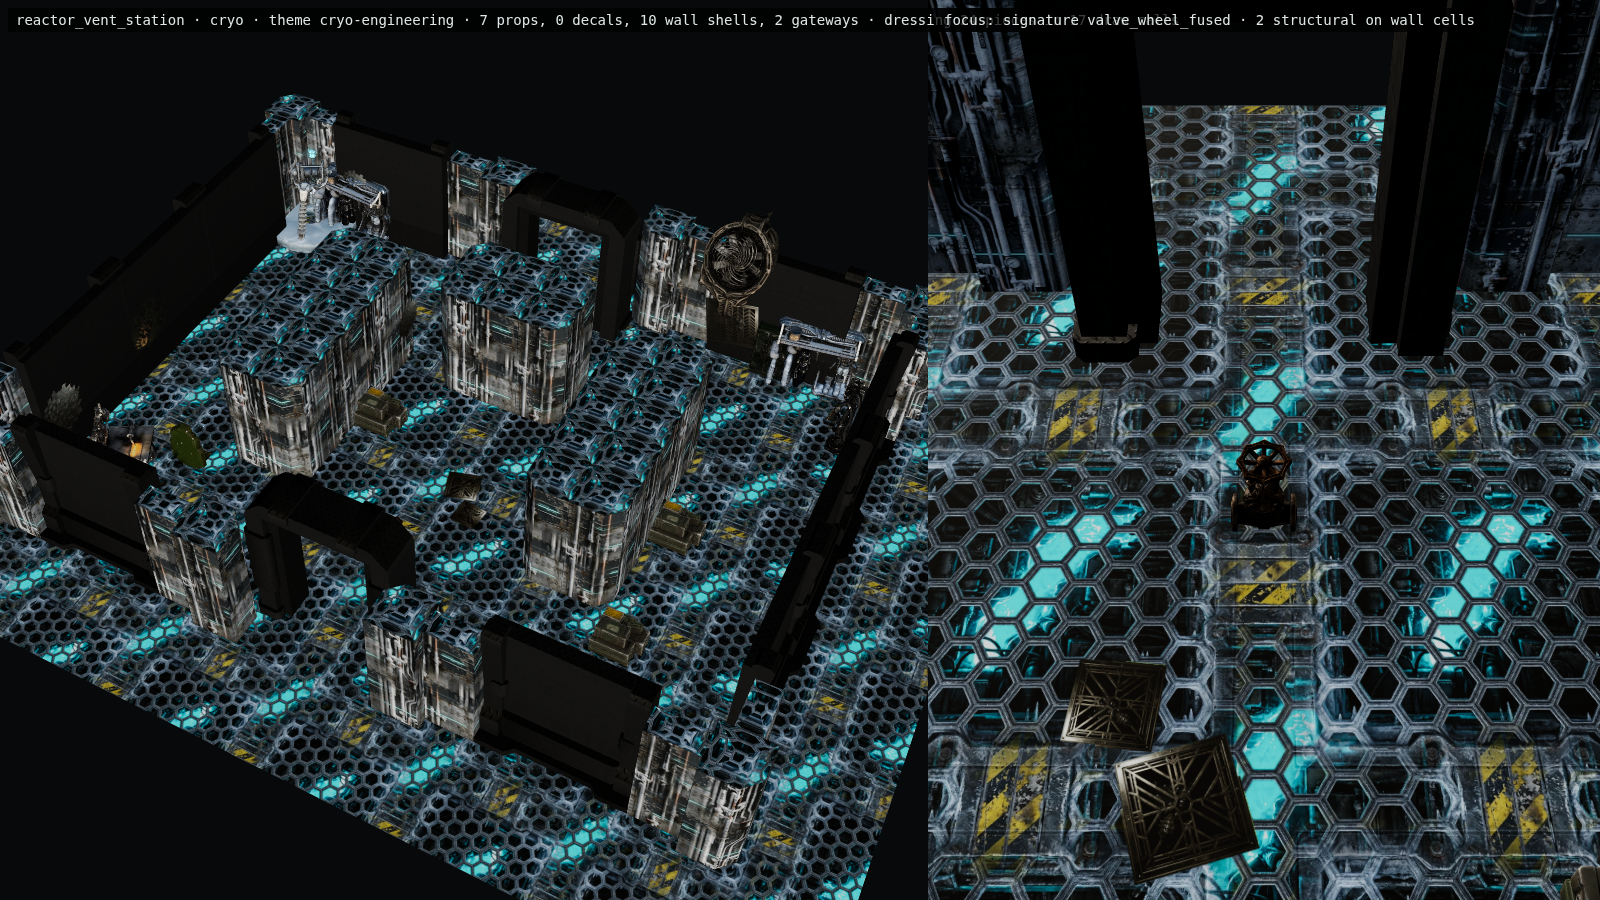
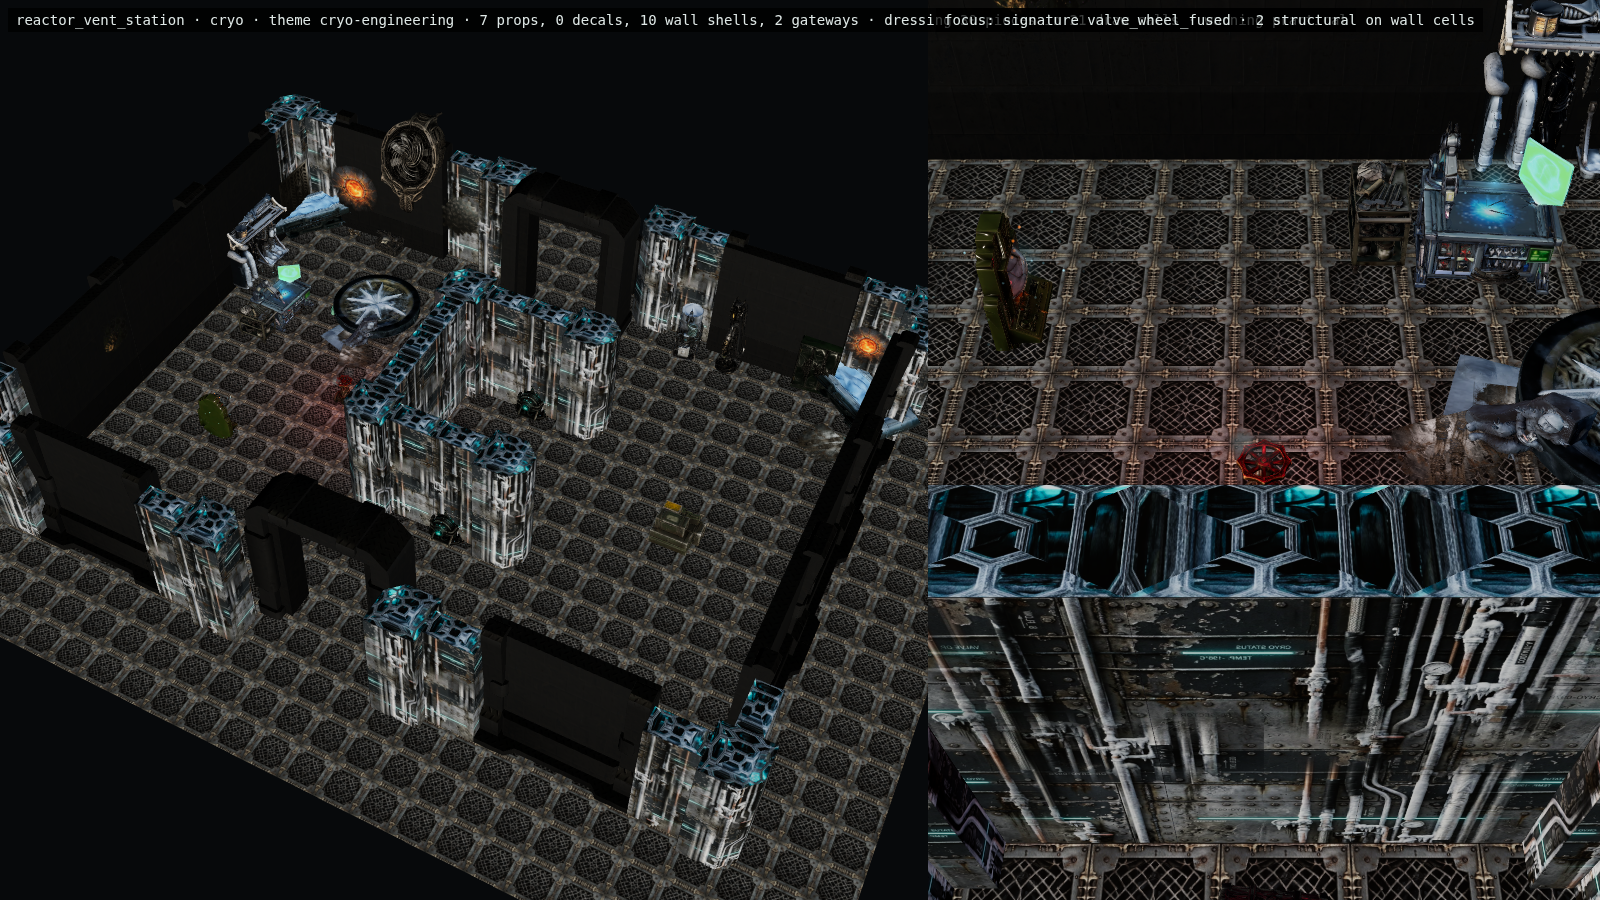
feat(levels): shape reactor vent into a false throat

diff --git a/src/data/roomBuilds.js b/src/data/roomBuilds.js
@@ -497,10 +497,21 @@ export const ROOM_BUILD_CATALOG = Object.freeze([
         family: 'engineering',
         themeStyle: 'cryo_deck',
         partitionThickness: 0.5,
-        pattern: rectRoomPattern(15, 11, [
-            { x: 3, y: 3, w: 2, h: 5 },
-            { x: 10, y: 3, w: 2, h: 5 },
-            { x: 6, y: 2, w: 3, h: 2 }
+        // P2 pressure-space proof: a single broken C reads as a false vent
+        // throat. The west service crescent owns the objective; the east
+        // route exposes the reward and encounter floor. Both rejoin north.
+        pattern: authoredRoomPattern([
+            '...............',
+            '...............',
+            '...............',
+            '......####.....',
+            '......#........',
+            '......#........',
+            '......#........',
+            '......####.....',
+            '...............',
+            '...............',
+            '...............'
         ]),
         sockets: [
             { id: 'entry', side: 's', width: 3, required: true },
@@ -511,20 +522,27 @@ export const ROOM_BUILD_CATALOG = Object.freeze([
         biomeEligibility: ['active', 'cryo'],
         roles: ['questDestination', 'objective'],
         structuralAnchors: [
-            { id: 'vent_stack_a', type: 'prop_conduit_hub', x: 4, y: 5 },
-            { id: 'vent_stack_b', type: 'prop_conduit_hub', x: 11, y: 5 }
+            { id: 'vent_stack_a', type: 'prop_conduit_hub', x: 8, y: 3 },
+            { id: 'vent_stack_b', type: 'prop_conduit_hub', x: 8, y: 7 }
         ],
         interactionAnchors: [
-            { id: 'reactor_vent_control', type: 'prop_valve_wheel_fused', x: 7, y: 8 }
+            { id: 'reactor_vent_control', type: 'prop_valve_wheel_fused', x: 4, y: 5 }
         ],
         signatureAnchorId: 'reactor_vent_control',
         compassAnchors: { approach: 'entry', objective: 'reactor_vent_control' },
-        coverZones: [{ x: 2, y: 2, w: 4, h: 7 }, { x: 9, y: 2, w: 4, h: 7 }],
-        encounterZones: [{ id: 'vent_floor', x: 6, y: 4, w: 3, h: 4 }],
-        rewardAnchors: [{ id: 'vent_service_cache', type: 'prop_bunker_supplies', x: 12, y: 8 }],
-        loreAnchors: [{ id: 'vent_shift_log', type: 'lore_terminal', x: 2, y: 8 }],
-        hazardZones: [{ id: 'steam_plume', x: 6, y: 2, w: 3, h: 2 }],
-        quietZones: [],
+        coverZones: [
+            { x: 6, y: 3, w: 4, h: 1 },
+            { x: 6, y: 3, w: 1, h: 5 },
+            { x: 6, y: 7, w: 4, h: 1 }
+        ],
+        encounterZones: [{ id: 'vent_floor', x: 7, y: 3, w: 7, h: 5 }],
+        rewardAnchors: [{ id: 'vent_service_cache', type: 'prop_bunker_supplies', x: 12, y: 5 }],
+        loreAnchors: [{ id: 'vent_shift_log', type: 'lore_terminal', x: 2, y: 7 }],
+        hazardZones: [{ id: 'steam_plume', x: 7, y: 4, w: 3, h: 3 }],
+        quietZones: [
+            { x: 5, y: 8, w: 5, h: 3 },
+            { x: 1, y: 3, w: 5, h: 5 }
+        ],
         safeZone: false,
         containmentBounds: { minX: 0, minY: 0, maxX: 14, maxY: 10 },
         presentationVariants: ['pressurized', 'venting', 'stabilized'],

diff --git a/src/roomBuilds.test.js b/src/roomBuilds.test.js
@@ -59,6 +59,41 @@ describe('ROOM_BUILD_CATALOG', () => {
         }));
     });
 
+    it('turns the reactor vent station into a two-route false throat', () => {
+        const build = ROOM_BUILD_CATALOG.find((entry) => entry.id === 'reactor_vent_station');
+        expect(build.pattern).toEqual([
+            '...............',
+            '...............',
+            '...............',
+            '......####.....',
+            '......#........',
+            '......#........',
+            '......#........',
+            '......####.....',
+            '...............',
+            '...............',
+            '...............'
+        ]);
+        const approach = computeApproachPoint(build);
+        const farSide = { x: 7, y: 2 };
+        const westOpening = new Set(Array.from({ length: 6 }, (_, x) => `${x},7`));
+        const eastOpening = new Set(Array.from({ length: 5 }, (_, offset) => `${offset + 10},7`));
+        expect(approach).toEqual({ x: 7, y: 8 });
+        expect(build.pattern[7][approach.x]).toBe('#');
+        expect(shortestPatternPath(build.pattern, approach, farSide, westOpening)).toBeLessThan(Infinity);
+        expect(shortestPatternPath(build.pattern, approach, farSide, eastOpening)).toBeLessThan(Infinity);
+        expect(shortestPatternPath(build.pattern, approach, { x: 4, y: 5 })).toBeLessThan(Infinity);
+        expect(shortestPatternPath(build.pattern, approach, { x: 12, y: 5 })).toBeLessThan(Infinity);
+        expect(build.structuralAnchors).toEqual(expect.arrayContaining([
+            expect.objectContaining({ id: 'vent_stack_a', x: 8, y: 3 }),
+            expect.objectContaining({ id: 'vent_stack_b', x: 8, y: 7 })
+        ]));
+        expect(build.structuralAnchors.every((anchor) => build.pattern[anchor.y][anchor.x] === '#')).toBe(true);
+        expect(build.interactionAnchors[0]).toMatchObject({ id: 'reactor_vent_control', x: 4, y: 5 });
+        expect(build.rewardAnchors[0]).toMatchObject({ id: 'vent_service_cache', x: 12, y: 5 });
+        expect(build.hazardZones[0]).toMatchObject({ id: 'steam_plume', x: 7, y: 4, w: 3, h: 3 });
+    });
+
     it('uses the medical P0A proof to create a reveal pivot and supply-side loop', () => {
         const build = ROOM_BUILD_CATALOG.find((entry) => entry.id === 'medical_triage');
         expect(build.pattern).toEqual([

diff --git a/tests/e2e/probes/p2-reactor-vent-gameplay-camera.spec.js b/tests/e2e/probes/p2-reactor-vent-gameplay-camera.spec.js
@@ -1,0 +1,19 @@
+import { test, expect } from '@playwright/test';
+
+// P2 pressure-space proof: the false throat, western valve crescent, eastern
+// reward route and optional north rejoin must read in every camera rotation.
+for (let rotation = 0; rotation < 4; rotation += 1) {
+    test(`P2 reactor vent game camera — R${rotation}`, async ({ page }) => {
+        await page.setViewportSize({ width: 1600, height: 900 });
+        await page.goto(`/tests/e2e/fixtures/furnished-room-showroom.html?build=reactor_vent_station&biome=cryo&review=gameplay&rotation=${rotation}`);
+        await page.waitForFunction(() => window.__showroom?.ready === true, null, { timeout: 90_000 });
+        const result = await page.evaluate(() => window.__showroom);
+        expect(result.reviewMode).toBe(true);
+        expect(result.rotation).toBe(rotation);
+        expect(result.cutawayCells).toBeGreaterThan(0);
+        expect(result.props + result.decals).toBeGreaterThan(0);
+        await page.screenshot({
+            path: `docs/reports/assets/furnished-rooms/p2-reactor_vent_station-game-camera-r${rotation}.png`
+        });
+    });
+}

diff --git a/src/anchorPracticalLight.js b/src/anchorPracticalLight.js
@@ -20,7 +20,7 @@ export const ANCHOR_LIGHT_PALETTE = Object.freeze({
 // First match wins; cyan before green so a "biomech oxygen" piece reads cold.
 const PALETTE_RULES = Object.freeze([
     { palette: 'cyan', match: /oxygen|coolant|cryo|o2_|frost|icey|thermal|water_still|medical_bed|tesla_coil|fabricator|cyber_junction/ },
-    { palette: 'warning', match: /false_cache|laser_trap|trap_emitter/ },
+    { palette: 'warning', match: /reactor_vent_control|valve_wheel_fused|false_cache|laser_trap|trap_emitter/ },
     { palette: 'amber', match: /reward_vault|lectern|votive|shrine|reliquary|saint|liturgical|candle|barrel_heater|flood_lamp|pheromone_censer|scent_distiller|warmth_hearth|checkpoint_post|wayfinding_totem|seismic_drill|devotion_tree|meat_smoking_rack|pipe_organ_heat_exchanger|ammo_crate/ },
     { palette: 'green', match: /biomech|spore|fungal|hive|flesh|umbilical|alien|incubator|mycelium/ }
 ]);

diff --git a/src/anchorPracticalLight.test.js b/src/anchorPracticalLight.test.js
@@ -16,6 +16,7 @@ describe('anchor practical light (lived-in world M4)', () => {
         expect(anchorPaletteFor('prop_cyber_junction')).toBe('cyan');
         expect(anchorPaletteFor('false_cache prop_bunker_supplies')).toBe('warning');
         expect(anchorPaletteFor('prop_laser_trap_emitter')).toBe('warning');
+        expect(anchorPaletteFor('reactor_vent_control prop_valve_wheel_fused')).toBe('warning');
         expect(anchorPaletteFor('reward_vault prop_bunker_supplies')).toBe('amber');
         expect(anchorPaletteFor('prop_pipe_organ_heat_exchanger')).toBe('amber');
         expect(anchorPaletteFor('prop_ammo_crate_stack')).toBe('amber');

diff --git a/docs/planning/n64-architectural-level-design-overhaul-2026-10-10.md b/docs/planning/n64-architectural-level-design-overhaul-2026-10-10.md
@@ -762,10 +762,28 @@ interaction and reward records share a cell and render once, but no controller c
 animation, payout, practical-light change, and persistent emptied state. `rewardCache.js` owns a
 separate high-stakes cache at its own coordinates; its O₂ siphon, defender wave, and lockdown must
 not be claimed here until the systems are deliberately bridged. A local future controller may
-animate and dim the prop without changing walls or routes. Next flat P2 candidate:
-`reactor_vent_station`; `ring_crossing_landmark` remains a detached progression proof.
+animate and dim the prop without changing walls or routes.
 
-### 9.6.5 Authored-geometry persistence gate
+### 9.6.5 Lane A P2: false vent throat
+
+`reactor_vent_station` is the fourth P2 spatial proof. A broken C-shaped throat replaces two
+generic rectangular cover islands. Its lower lip screens the south entry, the quiet western
+crescent reveals the quest-critical fused valve, and the eastern/inner side carries encounter,
+steam, and reward pressure before both routes rejoin at the optional north exit. Paired conduit
+hubs mount on the throat rather than reading as unrelated pillars. The valve now owns a restrained
+warning-red practical. Exact-pattern tests force both routes independently and preserve the
+canonical objective ID; four gameplay-camera/cutaway captures live at
+`docs/reports/assets/furnished-rooms/p2-reactor_vent_station-game-camera-r*.png`.
+
+Capability correction: the room anchor really is selected by the `reactor_venting` reservation,
+but it is not wired to the camp quest's separately spawned three-valve cluster. The valve GLB has
+vent particles but no use profile or articulated wheel; the encounter and steam rectangles are
+placement metadata, not activation or damage; and presentation/state labels do not drive effects.
+Future bounded response may change wheel strain, steam/sparks, light, and audio without changing
+collision or routes. Next flat P2 candidate: `hull_fabrication_bay`;
+`ring_crossing_landmark` remains a detached progression proof.
+
+### 9.6.6 Authored-geometry persistence gate
 
 The existing `ROOM_BUILD_VERSION` is only exported; it is not serialized or compared. Neither
 campaign `interiorVersion`, macro `layoutVersion`, nor `WORLD_PLAN_VERSION` pins room-pattern data.
@@ -1136,6 +1154,11 @@ chunk mounts.
   two-route and four-camera proofs pass, and authored supply caches no longer receive a redundant
   generic ammo pile. Opening animation, payout/light synchronization, and persistent emptied state
   remain future controller work.
+- 2026-10-11: Lane A rebuilt the reactor vent station around a single false C-throat. The quiet
+  western crescent now reveals its preserved quest valve while the hotter eastern route owns the
+  encounter, steam metadata, and service reward; both rejoin at the north exit. Exact two-route and
+  four-camera proofs pass. Valve articulation, steam damage, and state-driven FX remain future
+  controller work.
 - 2026-10-10: Round 2 done (`1b0fce7c`): chasm landmarks plus tactical-map glyphs. Criteria 1,
   3, 4 and 5 met; criterion 2 not met as written, with the reason and the map-based answer in
   §9.10.

diff --git a/docs/planning/world-design-doctrine-n64-lessons-2026-10-10.md b/docs/planning/world-design-doctrine-n64-lessons-2026-10-10.md
@@ -612,8 +612,26 @@ container-state controller. The colocated interaction and reward records produce
 but there is no proven synchronization among opening animation, reward claim, light state, and
 persistent emptied state. The separate high-stakes cache system in `rewardCache.js` is not wired to
 this room anchor. A future local controller may open or dim the cache and persist collection, but
-must not alter the C-screen or close either return route. The next flat P2 candidate is
-`reactor_vent_station`; the ring crossing remains a detached progression-integration proof.
+must not alter the C-screen or close either return route.
+
+`reactor_vent_station` is the fourth P2 spatial proof. One broken C-shaped obstruction replaces the
+paired cover blocks and reads as a false vent throat: vapor and light can rise over its lower lip
+without implying a traversable upper tier. The quiet western service crescent reveals the
+quest-critical `reactor_vent_control` under a warning-red practical; the eastern/inner route owns
+enemy placement, steam metadata, and the service cache. Both routes remain open and rejoin before
+the optional north exit. Tests pin the exact throat, both conduit-hub mounts, objective/reward
+coordinates, and force each route independently by blocking the opposite opening. Four
+gameplay-camera/cutaway captures live at
+`docs/reports/assets/furnished-rooms/p2-reactor_vent_station-game-camera-r*.png`.
+
+Capability correction: the objective ID genuinely satisfies the camp-quest reservation, but the
+room anchor is not the camp's three-valve quest-object cluster. `prop_valve_wheel_fused` has vent FX
+but no shipped use profile or wheel articulation; `vent_floor` constrains enemy placement;
+`steam_plume` is metadata without room-hazard damage; and the pressurized/venting/stabilized labels
+do not drive GLBs, particles, or navigation. Future response may strain the wheel, reduce local
+steam/sparks, and change status light/audio, but may not open a shortcut or close either route. The
+next flat P2 candidate is `hull_fabrication_bay`; the ring crossing remains a detached
+progression-integration proof.
 
 ## Greybox process
 
